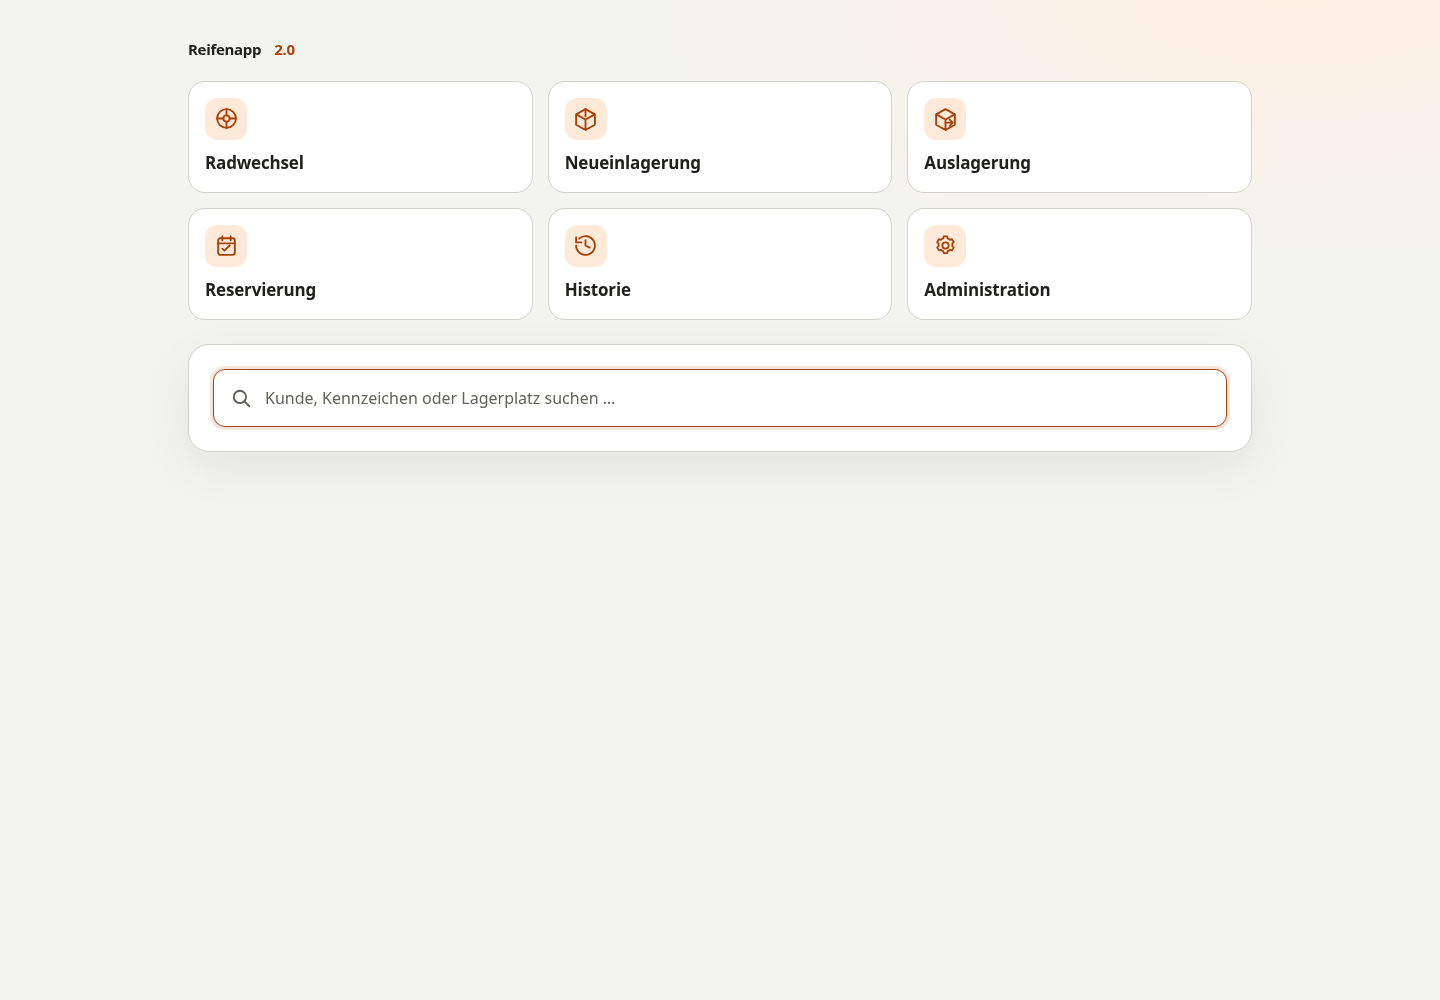
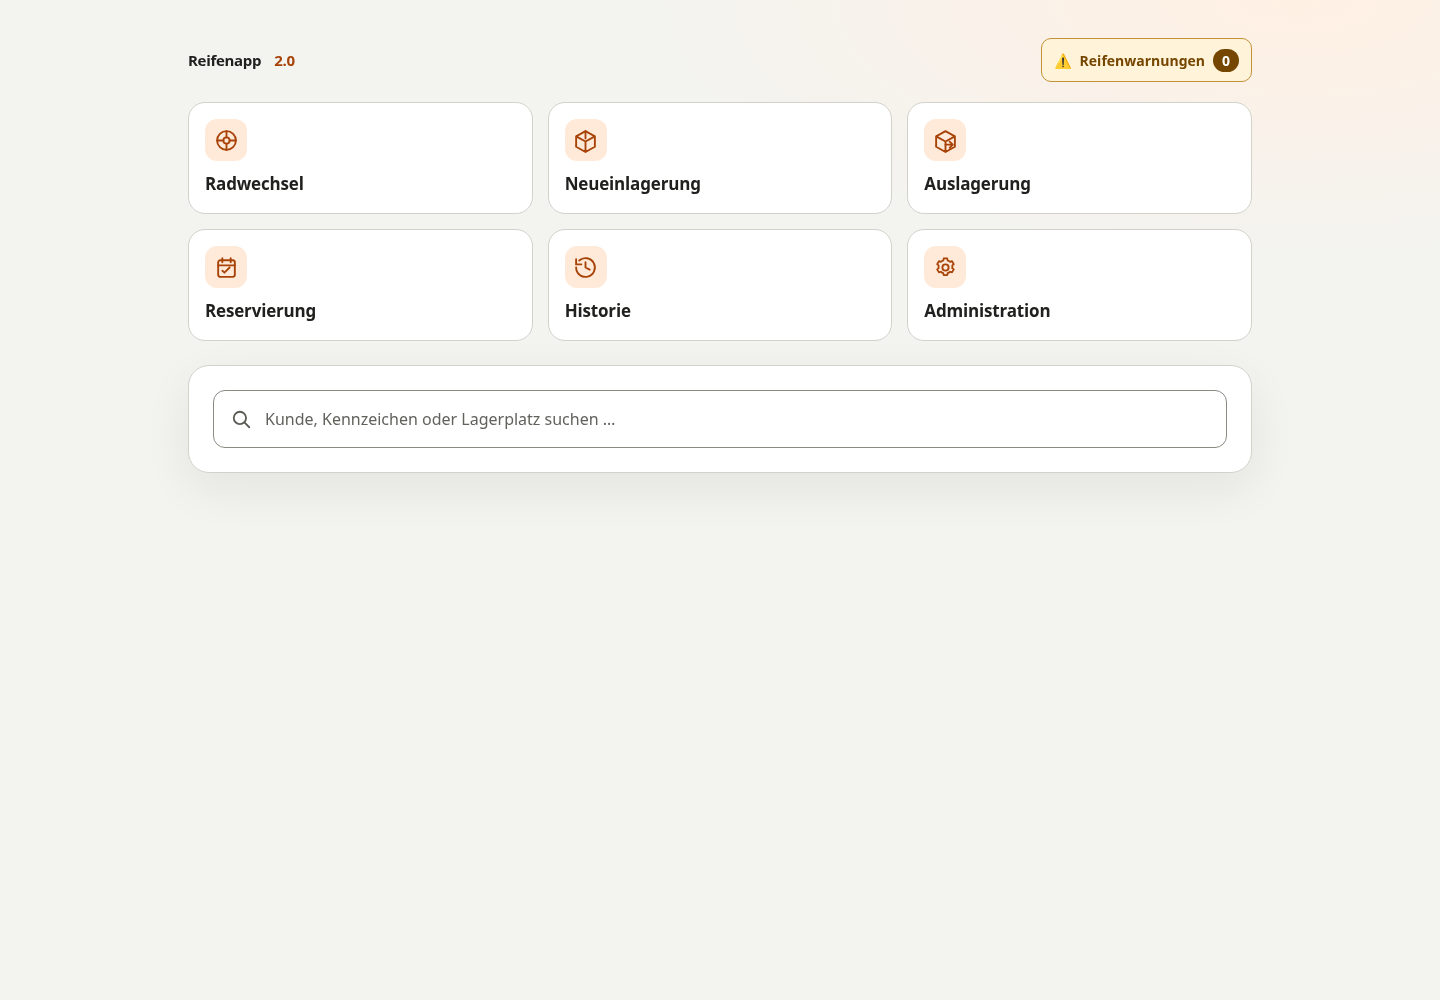
feat: add homepage tire warning counter and overview

Changed region(s): [[0.125, 0.031, 0.875, 0.465], [0.7188, 0.031, 0.875, 0.093]]

diff --git a/web/index.html b/web/index.html
@@ -10,12 +10,14 @@
     *{box-sizing:border-box}body{margin:0;background:radial-gradient(ellipse 70% 40% at 90% 0%,#fff0e3 0%,transparent 65%),var(--bg);color:var(--text);font:16px/1.5 system-ui,-apple-system,BlinkMacSystemFont,"Segoe UI",sans-serif;min-height:100vh}button,input{font:inherit}button{cursor:pointer}button:focus-visible,input:focus-visible{outline:3px solid var(--accent);outline-offset:3px}main{max-width:1120px;margin:0 auto;padding:38px 28px 60px}.top{display:flex;align-items:center;justify-content:space-between;gap:20px;margin-bottom:20px}.brand{display:flex;align-items:center;gap:13px;font-weight:700;font-size:15px;letter-spacing:-.02em}.search-panel{background:linear-gradient(140deg,#ffffff,#ffffff);border:1px solid #d2d2cb;border-radius:21px;padding:24px;box-shadow:var(--shadow);margin-top:24px;margin-bottom:0}.searchbox{position:relative}.searchbox svg{position:absolute;left:17px;top:50%;transform:translateY(-50%);color:var(--muted);pointer-events:none}.searchbox input{width:100%;height:58px;background:#ffffff;border:1px solid #8a8a83;border-radius:12px;color:var(--text);padding:0 18px 0 51px;outline:none}.searchbox input:focus{border-color:var(--accent);box-shadow:0 0 0 3px rgba(168,67,8,.14)}.searchbox input::placeholder{color:#62625c}.hint{margin:10px 0 0;color:var(--muted);font-size:13px}.results{margin-top:18px;display:none}.results.active{display:block}.result-head{display:flex;justify-content:space-between;gap:15px;align-items:center;margin-bottom:10px;color:var(--muted);font-size:13px}.result-list{display:grid;gap:9px}.result{display:flex;align-items:center;justify-content:space-between;gap:12px;border:1px solid var(--line);border-radius:12px;background:#ffffff;padding:13px 15px}.result strong{font-size:18px;line-height:1.5}.result small{display:block;color:var(--muted);font-size:15px;line-height:1.65;margin-top:4px}.place{font-weight:800;white-space:nowrap;background:#ffead9;color:var(--accent2);padding:7px 11px;border-radius:9px}.empty{color:var(--muted);font-size:14px;margin:0}h2{font-size:22px;letter-spacing:-.02em;margin:0}.actions{display:grid;grid-template-columns:repeat(3,minmax(0,1fr));gap:15px}.action{display:flex;flex-direction:column;text-align:left;align-items:flex-start;min-height:112px;padding:16px;border-radius:17px;background:var(--surface);border:1px solid var(--line);color:var(--text);transition:transform .15s,border-color .15s,background .15s}.action:hover{background:var(--surface2);border-color:#a84308;transform:translateY(-2px)}.action .iconwrap{width:42px;height:42px;display:grid;place-items:center;border-radius:12px;background:#ffead9;color:var(--accent);margin-bottom:10px}.action strong{font-size:17px;letter-spacing:-.01em}dialog{border:1px solid #b8b8b1;border-radius:20px;background:#ffffff;color:var(--text);padding:28px;max-width:410px;width:calc(100% - 40px);box-shadow:0 35px 80px #0009}dialog::backdrop{background:#050a12bc}dialog h3{margin:0 0 10px;font-size:24px}dialog p{color:var(--muted);margin:0 0 23px}dialog button{border:0;border-radius:10px;background:var(--accent);color:#ffffff;font-weight:800;padding:11px 20px}@media(max-width:800px){.actions{grid-template-columns:repeat(2,minmax(0,1fr))}}@media(max-width:520px){main{padding:24px 16px 36px}.top{margin-bottom:20px}.search-panel{padding:17px}.actions{gap:10px}.action{padding:12px;min-height:100px}.action strong{font-size:15px}}
 
     .result.search-result{display:block;min-width:0}.result-summary{display:flex;align-items:flex-start;justify-content:space-between;gap:12px}.result-info{min-width:0;overflow-wrap:anywhere}.result-info a{display:inline-block;margin-top:6px;color:var(--accent);font-size:15px}.search-result .place{max-width:45%;white-space:normal;overflow-wrap:anywhere}.result-warnings{display:grid;gap:7px;margin-top:12px}.result-warning{display:flex;align-items:flex-start;gap:9px;margin:0;padding:9px 11px;border:1px solid #c29238;border-radius:8px;background:#fff3d9;color:#754600;font-size:15px;line-height:1.6;overflow-wrap:anywhere;white-space:pre-wrap}.result-warning svg{flex:none;margin-top:1px}.result-warning span{min-width:0}.result-details{margin-top:12px;border-top:1px solid var(--line);padding-top:9px}.result-details summary{display:flex;align-items:center;justify-content:space-between;gap:12px;cursor:pointer;list-style:none;color:var(--accent);font-size:15px;font-weight:650}.result-details summary::-webkit-details-marker{display:none}.result-details summary:focus-visible{outline:2px solid var(--accent);outline-offset:4px;border-radius:3px}.result-chevron{display:inline-block;font-size:23px;line-height:1;transition:transform .15s}.result-details[open] .result-chevron{transform:rotate(180deg)}.result-data{display:grid;grid-template-columns:repeat(2,minmax(0,1fr));gap:12px 20px;margin:14px 0 0}.result-data>div{min-width:0}.result-data dt{color:var(--muted);font-size:14px;font-weight:600}.result-data dd{margin:3px 0 0;font-size:16px;line-height:1.65;white-space:pre-wrap;overflow-wrap:anywhere}@media(max-width:520px){.result-data{grid-template-columns:1fr}}
+
+    .top{flex-wrap:wrap}.warnings-button{margin-left:auto;display:inline-flex;align-items:center;gap:8px;min-height:44px;padding:8px 12px;border:1px solid #c29238;border-radius:10px;background:#fff3d9;color:#754600;font-size:14px;font-weight:700}.warnings-count{min-width:26px;padding:1px 7px;border-radius:20px;background:#754600;color:#fff;text-align:center}.warnings-button.is-error{border-color:#ac2634;color:#9b1c29;background:#fff0f1}#warnings-dialog{width:calc(100% - 32px);max-width:1000px;max-height:90dvh;overflow:auto;padding:22px}.warnings-heading{display:flex;align-items:center;justify-content:space-between;gap:12px}.warnings-heading h3{margin:0}.warnings-heading button{font-size:24px;padding:4px 12px;background:var(--surface2);color:var(--text)}#warnings-dialog .warnings-help{font-size:14px;margin:12px 0}.warnings-tools{display:flex;gap:8px;flex-wrap:wrap}.warnings-tools button{font-size:14px;min-height:44px;background:var(--surface2);color:var(--text);border:1px solid var(--line);padding:8px 12px}.warnings-tools button[aria-pressed=true]{background:var(--accent);color:white;border-color:var(--accent)}#warnings-status{margin:14px 0;font-size:14px}#warnings-status.is-error{color:#9b1c29}#warnings-list .result-info a{color:var(--accent2);text-decoration:underline}#warnings-dialog .result-warning{margin:0;color:#754600}#warnings-dialog .result-details summary{padding:4px 0}@media(max-width:520px){#warnings-dialog{padding:16px}.warnings-tools button{flex:1}.warnings-heading h3{font-size:21px}}
   </style>
   <link rel="stylesheet" href="/css/storage.css?v=light-orange-1">
 </head>
 <body>
 <main>
-  <header class="top"><span class="brand">Reifenapp <span style="color:var(--accent)">2.0</span></span></header>
+  <header class="top"><span class="brand">Reifenapp <span style="color:var(--accent)">2.0</span></span><button id="warnings-button" class="warnings-button" type="button" aria-haspopup="dialog" aria-controls="warnings-dialog" aria-label="Reifenwarnungen laden"><span aria-hidden="true">⚠</span> Reifenwarnungen <span id="warnings-count" class="warnings-count">…</span></button></header>
 
   <section aria-label="Vorgänge"><div class="actions">
     <button class="action" data-title="Radwechsel"><span class="iconwrap"><svg width="25" height="25" viewBox="0 0 24 24" fill="none" stroke="currentColor" stroke-width="1.8" stroke-linecap="round"><circle cx="12" cy="12" r="9"/><circle cx="12" cy="12" r="3"/><path d="M12 3v6m9 3h-6m-3 9v-6m-9-3h6"/></svg></span><strong>Radwechsel</strong></button>
@@ -27,6 +29,7 @@
   </div></section>
   <section class="search-panel" aria-label="Schnellsuche"><div class="searchbox"><svg width="22" height="22" viewBox="0 0 24 24" fill="none" stroke="currentColor" stroke-width="2" stroke-linecap="round" aria-hidden="true"><circle cx="10.8" cy="10.8" r="6.7"/><path d="m16 16 5 5"/></svg><input id="search" type="search" autocomplete="off" spellcheck="false" placeholder="Kunde, Kennzeichen oder Lagerplatz suchen …" aria-label="Kunde, Kennzeichen oder Lagerplatz suchen" aria-controls="results"></div><div id="results" class="results" aria-live="polite"><div class="result-head"><span id="count"></span></div><div id="result-list" class="result-list"></div></div></section>
 </main>
+<dialog id="warnings-dialog" aria-labelledby="warnings-title"><div class="warnings-heading"><h3 id="warnings-title">Reifenverschleiß</h3><button id="warnings-close" type="button" aria-label="Warnungen schließen">×</button></div><p class="warnings-help">Der Zähler zeigt aktuell eingelagerte Radsätze mit Warnung. Historische Messwerte sind über „Alle Vorgänge“ erreichbar.</p><div class="warnings-tools"><button id="warnings-active" type="button" aria-pressed="true">Aktuell eingelagert</button><button id="warnings-all" type="button" aria-pressed="false">Alle Vorgänge inkl. Historie</button><button id="warnings-reload" type="button">Aktualisieren</button></div><p id="warnings-status" role="status" aria-live="polite"></p><div id="warnings-list" class="result-list" aria-busy="false"></div></dialog>
 <dialog id="placeholder"><h3 id="modal-title"></h3><p>Dieser Bereich ist in Version 0.1 noch nicht implementiert. Die Schaltfläche dient zunächst als Platzhalter.</p><button id="close-modal">Verstanden</button></dialog>
 <p id="storage-confirmation" role="status" hidden></p>
 <dialog id="storage-dialog" aria-labelledby="storage-title">
@@ -65,8 +68,9 @@
 <div class="release-actions"><button type="submit" id="release-save" disabled>Auslagerung bestätigen</button><button type="button" id="release-close" class="secondary">Schließen</button></div>
 </form></dialog>
 <script src="/js/receipts.js" defer></script>
-<script src="/js/release.js?v=areas-1" defer></script>
-<script src="/js/storage.js?v=areas-1" defer></script>
-<script src="/js/app.js?v=result-heading-1" defer></script>
+<script src="/js/release.js?v=warnings-1" defer></script>
+<script src="/js/storage.js?v=warnings-1" defer></script>
+<script src="/js/app.js?v=warnings-1" defer></script>
+<script src="/js/warnings.js?v=warnings-1" defer></script>
 </body>
 </html>

diff --git a/web/js/warnings.js b/web/js/warnings.js
@@ -1,0 +1,39 @@
+'use strict';
+(()=>{
+ const $=id=>document.getElementById(id),dialog=$('warnings-dialog'),button=$('warnings-button');
+ let scope='active',badgeRequest,listRequest,badgeGeneration=0,listGeneration=0;
+ async function fetchWarnings(scope,signal){
+  const response=await fetch('/api/warnings?scope='+scope,{cache:'no-store',signal});
+  if(!response.ok)throw Error('Reifenwarnungen konnten nicht geladen werden. Bitte erneut versuchen.');
+  return response.json();
+ }
+ function setBadge(data){$('warnings-count').textContent=data.count;button.classList.remove('is-error');button.setAttribute('aria-label',`Reifenwarnungen: ${data.count} aktuell eingelagerte Radsätze. Übersicht öffnen.`);button.title='Aktuell eingelagerte Radsätze mit niedriger Profiltiefe';}
+ async function refreshBadge(){
+  const generation=++badgeGeneration;badgeRequest?.abort();badgeRequest=new AbortController();
+  try{const data=await fetchWarnings('active',badgeRequest.signal);if(generation===badgeGeneration)setBadge(data)}
+  catch(error){if(error.name==='AbortError'||generation!==badgeGeneration)return;$('warnings-count').textContent='?';button.classList.add('is-error');button.setAttribute('aria-label','Reifenwarnungen derzeit nicht abrufbar. Übersicht öffnen und erneut versuchen.');button.title='Warnungszähler derzeit nicht verfügbar';}
+ }
+ async function loadWarnings(){
+  const generation=++listGeneration;listRequest?.abort();listRequest=new AbortController();
+  $('warnings-list').replaceChildren();$('warnings-list').setAttribute('aria-busy','true');$('warnings-status').classList.remove('is-error');$('warnings-status').textContent='Warnungen werden geladen …';
+  $('warnings-active').setAttribute('aria-pressed',String(scope==='active'));$('warnings-all').setAttribute('aria-pressed',String(scope==='all'));
+  try{
+   const data=await fetchWarnings(scope,listRequest.signal);if(generation!==listGeneration||!dialog.open)return;
+   if(scope==='active')setBadge(data);
+   $('warnings-status').textContent=data.count?`${data.count} ${scope==='active'?'aktuell eingelagerte Radsätze':'Vorgänge inklusive Historie'} mit Verschleißwarnung · ${data.axle_count} betroffene Achsen`:(scope==='active'?'Keine Verschleißwarnungen für aktuell eingelagerte Radsätze.':'Keine gespeicherten Vorgänge mit Verschleißwarnung.');
+   for(const item of data.items)$('warnings-list').append(searchCard(item));
+  }catch(error){if(error.name==='AbortError'||generation!==listGeneration)return;$('warnings-status').textContent=error.message;$('warnings-status').classList.add('is-error');}
+  finally{if(generation===listGeneration)$('warnings-list').setAttribute('aria-busy','false');}
+ }
+ button.addEventListener('click',()=>{scope='active';dialog.showModal();dialog.scrollTop=0;loadWarnings();refreshBadge();});
+ $('warnings-close').addEventListener('click',()=>dialog.close());
+ dialog.addEventListener('close',()=>{listGeneration++;listRequest?.abort();$('warnings-list').replaceChildren();$('warnings-list').setAttribute('aria-busy','false');});
+ for(const [id,value] of [['warnings-active','active'],['warnings-all','all']])$(id).addEventListener('click',()=>{scope=value;loadWarnings();});
+ $('warnings-reload').addEventListener('click',()=>{loadWarnings();refreshBadge();});
+ function refresh(){refreshBadge();if(dialog.open)loadWarnings();}
+ window.addEventListener('workshop-data-changed',refresh);
+ window.addEventListener('focus',()=>{if(!document.hidden)refresh();});
+ document.addEventListener('visibilitychange',()=>{if(!document.hidden)refresh();});
+ setInterval(()=>{if(!document.hidden)refreshBadge();},60000);
+ refreshBadge();
+})();

diff --git a/web/js/app.js b/web/js/app.js
@@ -33,10 +33,8 @@ function searchCard(item){
   const data=item.details||{},warnings=document.createElement('div');warnings.className='result-warnings';
   const warn=(text,kind)=>{const row=document.createElement('p');row.className='result-warning '+kind;const label=document.createElement('span');label.textContent=text;row.append(warningIcon(),label);warnings.append(row)};
   if(data.notes?.trim())warn('Hinweis: '+data.notes,'notes-warning');
-  const threshold={Sommer:3,Winter:4,Ganzjahr:4}[data.tire_type];
-  for(const [key,axle] of [['front_depth','VA'],['rear_depth','HA']]){
-    const raw=data[key],depth=typeof raw==='string'&&raw.trim()!==''?Number(raw.replace(',','.')):NaN;
-    if(threshold!==undefined&&Number.isFinite(depth)&&depth>=0&&depth<=threshold)warn(`Profiltiefe ${axle}: ${depth.toLocaleString('de-DE')} mm – niedrig (Warnschwelle ≤ ${threshold} mm für ${data.tire_type}).`,'depth-warning');
+  for(const warning of item.tread_warnings||[]){
+    warn(`Profiltiefe ${warning.axle}: ${warning.depth.toLocaleString('de-DE')} mm – niedrig (Warnschwelle ≤ ${warning.threshold} mm für ${data.tire_type}).`,'depth-warning');
   }
   if(warnings.childElementCount)card.append(warnings);
   const details=document.createElement('details');details.className='result-details';

diff --git a/web/js/storage.js b/web/js/storage.js
@@ -228,6 +228,7 @@
       status.textContent=`${reservationMode?'Reservierung':wheelChangeMode?'Radwechsel':'Neueinlagerung'} auf ${data.place} gespeichert. Über die Schnellsuche auffindbar.`;
       const confirmation=document.getElementById('storage-confirmation');
       confirmation.textContent=status.textContent;confirmation.hidden=false;
+      window.dispatchEvent(new Event("workshop-data-changed"));
       receipt.complete(data.pdf_url,confirmation);
       dialog.close();
       const search=document.getElementById('search');if(search.value.trim())search.dispatchEvent(new Event('input'));

diff --git a/web/js/release.js b/web/js/release.js
@@ -63,6 +63,7 @@
       const data=await response.json();
       if(!response.ok)throw Error(data.error||'Auslagerung fehlgeschlagen.');
       const confirmation=document.getElementById('storage-confirmation');confirmation.textContent='Auslagerung auf '+data.place+' gespeichert. Der Lagerplatz ist wieder frei.';confirmation.hidden=false;
+      window.dispatchEvent(new Event("workshop-data-changed"));
       receipt.complete(data.pdf_url,confirmation);
       dialog.close();
       const search=document.getElementById('search');if(search.value.trim())search.dispatchEvent(new Event('input'));

diff --git a/docs/betrieb-und-api.md b/docs/betrieb-und-api.md
@@ -67,6 +67,7 @@ konkrete JSON-Strukturen und Validierungen stehen in `internal/handlers/` und
 
 | Methode und Pfad | Zweck |
 | --- | --- |
+| `GET /api/warnings?scope=active` | Verschleißwarnungen für aktuell eingelagerte Radsätze; `scope=all` umfasst alle gespeicherten Vorgänge |
 | `GET /api/search?q=...` | Suche in der Vorgangshistorie nach Kunde, Kennzeichen, Platz oder Vorgangsart |
 | `GET /api/customers?q=...` | Bis zu 20 Namensvorschläge per Präfixsuche |
 | `GET /api/storage/options` | Auswahlwerte und aktueller Lagerkatalog (`area`, `storage_areas`) |
@@ -160,3 +161,37 @@ TLS bereit. Für den lokalen Standardstart ist diese Option nicht erforderlich.
 Auf dem Raspberry Pi werden Go und eine C-Toolchain benötigt. Zunächst direkt
 auf dem Zielgerät bauen; Cross-Compiling mit CGO benötigt eine passende
 Cross-Toolchain. Ein Hardwaretest auf dem Pi steht noch aus.
+
+## Warnungsanzeige auf der Startseite
+
+Oben rechts öffnet **Reifenwarnungen** eine Übersicht unabhängig von der Suche.
+Der Zähler zählt aktuell eingelagerte Radsätze mit mindestens einer betroffenen
+Achse, nicht die Anzahl der Achsen. Zwei kritische Achsen desselben Radsatzes
+zählen deshalb als ein Radsatz. Die Übersicht nennt zusätzlich die Achsenzahl.
+
+**Aktuell eingelagert** zeigt aktive Einlagerungen und Radwechsel. Nach einer
+Auslagerung entfällt der Vorgang im aktuellen Zähler. **Alle Vorgänge inkl.
+Historie** zeigt sämtliche gespeicherten Vorgangsschnappschüsse mit kritischen
+Messwerten, auch frühere Einlagerungen und Auslagerungen. Dort können mehrere
+Vorgänge desselben Radsatzes erscheinen; sie sind mit Vorgangsart, Status und
+Zeitpunkt gekennzeichnet. Eine erneute gesunde Belegung desselben Platzes übernimmt
+keine alten Warnungen. Alle Karten lassen sich aufklappen und bieten den PDF-Beleg.
+
+Die Warnschwellen bleiben Sommer ≤ 3 mm und Winter/Ganzjahr ≤ 4 mm. Suchkarten und
+Warnungsübersicht verwenden dieselbe serverseitige Auswertung. Fehlende oder
+ungültige Messwerte und unbekannte Reifenarten erzeugen keine Bewertung.
+Ein bloßer Freitexthinweis wird nicht als Reifenverschleiß gezählt.
+
+Der Zähler lädt beim Seitenstart, nach erfolgreichen Formularvorgängen, bei
+Rückkehr zum Browserfenster und auf sichtbaren Seiten jede Minute neu. Öffnen und
+„Aktualisieren“ laden die Übersicht erneut. Bei Abruffehlern erscheint `?` statt
+einer falschen Null; die Übersicht bietet eine Fehlermeldung und erneutes Laden.
+Es werden keine neuen Warnungsdatensätze erzeugt und keine Kundendaten verändert.
+
+`GET /api/warnings` verwendet standardmäßig `scope=active`. Die JSON-Antwort enthält
+`scope`, `count` (Radsätze bzw. historische Vorgänge), `axle_count` und `items`.
+Jeder Eintrag enthält die bekannten Suchergebnisfelder sowie `tread_warnings`
+mit `axle` (`VA`/`HA`), `depth` und `threshold`. `scope=all` liefert alle passenden
+Historienvorgänge ohne stillschweigende Kürzung. Ungültige Ansichten liefern HTTP 400,
+Datenbankfehler HTTP 500. Antworten verwenden `Cache-Control: no-store`.
+Für dieses Feature ist keine weitere Datenbankmigration nötig.

diff --git a/README.md b/README.md
@@ -20,6 +20,7 @@ Historie und druckbaren DIN-A4-Belegen. Ohne Cloudpflicht.
 
 | Bereich | Was bereits funktioniert |
 | --- | --- |
+| Reifenwarnungen | Anzeige oben rechts mit aktuellem Zähler; Übersicht aller Verschleißwarnungen einschließlich Historie. |
 | Schnellsuche | Kunden, Kennzeichen, Lagerplätze und Vorgänge suchen; Karten mit allen Vorgangsdaten aufklappen. Hinweise und niedrige Profiltiefen direkt sehen – auch bei abgeschlossenen Auslagerungen. |
 | Neueinlagerung | Kunden- und Fahrzeugdaten, beide Achsen, Profiltiefen und Zubehör erfassen; Lagerplatz direkt prüfen. |
 | Radwechsel | Eigenes Formular mit Reifendaten und eindeutiger Kennzeichnung des Vorgangs im Backend. |
